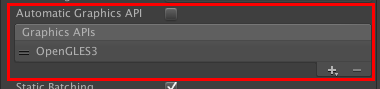
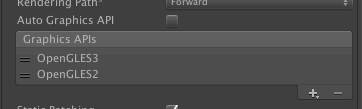
Update document

Changed region(s): [[0.0, 0.0, 1.0, 1.0], [0.4254, 0.0899, 0.5166, 0.1798]]

diff --git a/ja/UseVideoRecording.md b/ja/UseVideoRecording.md
@@ -1,5 +1,5 @@
 # プレイ動画録画の利用方法
-last update at　2016/04/15
+last update at　2016/04/22
 
 ----------
 以下はビデオ録画機能を利用する場合の設定です。ビデオ録画機能を利用を利用しない場合は下記の対応はすべて不要です。
@@ -8,10 +8,12 @@ last update at　2016/04/15
 
 ## [iOSの場合] Graphics API の設定
 
-現在、AppSteroidでは Open GL ES 3.0 の録画機能に対応しています。
-Player Setting -> Other Settings -> Graphics API を Open GL ES 3.0 に設定してください。
+現在、AppSteroidでは Open GL ES の録画機能に対応しています。
+Player Setting -> Other Settings -> Graphics API を Open GL ES 3.0 および Open GL ES 2.0 に設定してください。
 
 - Unity 4.6.*
+
+OpenGL ES 2.0 または 3.0 に設定して下さい。
 
 ![](Images/VideoRecordingSetting.png)
 
